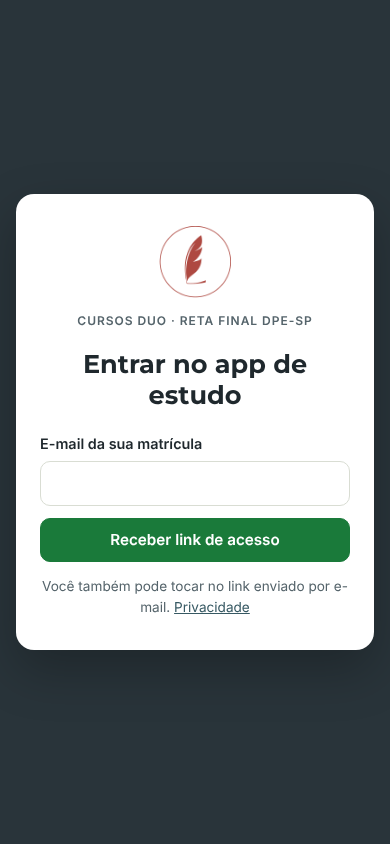
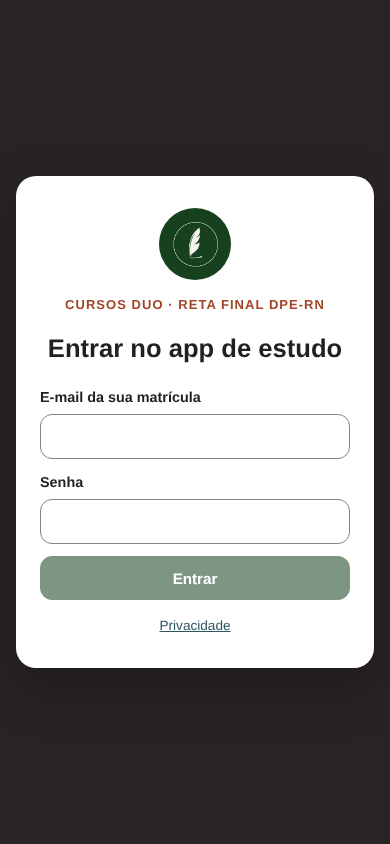
Questões: confirmar a resposta e a questão respondida não some (PR #32 do DPE-SP)
Traz as duas correções do banco de questões feitas no app do DPE-SP depois da cópia,
e as capturas da tela de login com a identidade DPE-RN.

Claude-Session: https://claude.ai/code/session_01P45dY2JHc384K51xrF12Gf

Changed region(s): [[0.0308, 0.1848, 0.9846, 0.8009]]

diff --git a/components/questions/QuestionBank.tsx b/components/questions/QuestionBank.tsx
@@ -56,6 +56,8 @@ function LegalBasis({ questionId }: { questionId: string }) {
 
 function QuestionCard({ question, onAnswered }: { question: QuestionView; onAnswered: (id: string, choice: Letter, correct: boolean) => void }) {
   const [error, setError] = useState(""); const [retry, setRetry] = useState(false);
+  // Alternativa marcada, ainda sem confirmar: o aluno pode trocar antes de ver a correção.
+  const [picked, setPicked] = useState<Letter | null>(null);
   const answer = retry ? null : question.resposta;
   // Corrige na hora, no aparelho; a resposta é salva em seguida sem prender a tela.
   function save(choice: Letter) {
@@ -64,10 +66,11 @@ function QuestionCard({ question, onAnswered }: { question: QuestionView; onAnsw
       .then(async (response) => { if (!response.ok) { const payload = await response.json().catch(() => ({})); throw new Error(payload?.error?.message ?? ""); } })
       .catch((failure: Error) => setError(`Sua resposta não foi salva${failure.message ? ` (${failure.message})` : ""}. Confira a conexão e responda de novo.`));
   }
-  function choose(choice: Letter) {
-    if (answer) return;
+  function confirm() {
+    if (answer || !picked) return;
+    const choice = picked;
     const correct = question.anulada || choice === question.gabarito;
-    setRetry(false); onAnswered(question.id, choice, correct); save(choice);
+    setRetry(false); setPicked(null); onAnswered(question.id, choice, correct); save(choice);
   }
   const letters = Object.keys(question.alternativas) as Letter[];
   return <article className="q-card" aria-labelledby={`q-${question.id}`}>
@@ -76,15 +79,16 @@ function QuestionCard({ question, onAnswered }: { question: QuestionView; onAnsw
     {question.anulada && <p className="q-note">Questão anulada pela banca: qualquer alternativa conta como acerto.</p>}
     <ol className="q-alts" aria-label="Alternativas">
       {letters.map((letter) => {
-        const chosen = answer?.choice === letter, isAnswer = Boolean(answer) && question.gabarito === letter;
-        const state = !answer ? "" : isAnswer ? "is-answer" : chosen ? "is-wrong" : "is-dim";
-        return <li key={letter}><button type="button" className={`q-alt ${state}`.trim()} onClick={() => choose(letter)} disabled={Boolean(answer)} aria-pressed={chosen}>
+        const chosen = answer ? answer.choice === letter : picked === letter, isAnswer = Boolean(answer) && question.gabarito === letter;
+        const state = !answer ? (chosen ? "is-picked" : "") : isAnswer ? "is-answer" : chosen ? "is-wrong" : "is-dim";
+        return <li key={letter}><button type="button" className={`q-alt ${state}`.trim()} onClick={() => setPicked(letter)} disabled={Boolean(answer)} aria-pressed={chosen}>
           <span className="q-letter" aria-hidden="true">{letter}</span><span>{question.alternativas[letter]}</span>
           {answer && isAnswer && <span className="q-mark">✓ gabarito</span>}{answer && chosen && !isAnswer && <span className="q-mark">✗ sua resposta</span>}
         </button></li>;
       })}
     </ol>
-    {answer && <p className={answer.correct ? "q-result ok" : "q-result bad"} role="status">{answer.correct ? "Você acertou!" : `Você marcou ${answer.choice}. Gabarito: ${question.gabarito ?? "anulada"}.`} <button type="button" className="button ghost" onClick={() => setRetry(true)}>Responder de novo</button></p>}
+    {!answer && <div className="q-confirm"><button type="button" className="button primary" onClick={confirm} disabled={!picked}>Confirmar resposta</button>{!picked && <span className="muted">Escolha uma alternativa e confirme para ver a correção.</span>}</div>}
+    {answer && <p className={answer.correct ? "q-result ok" : "q-result bad"} role="status">{answer.correct ? "Você acertou!" : `Você marcou ${answer.choice}. Gabarito: ${question.gabarito ?? "anulada"}.`} <button type="button" className="button ghost" onClick={() => { setRetry(true); setPicked(null); }}>Responder de novo</button></p>}
     {answer && !answer.correct && question.gabarito && <p className="q-right"><strong>Alternativa correta ({question.gabarito}):</strong> {question.alternativas[question.gabarito]}</p>}
     {answer && question.comentario && <details className="q-comment" open><summary>Gabarito comentado</summary>{question.comentario.split(/\n{2,}/).map((paragraph, index) => <p key={index}>{paragraph}</p>)}</details>}
     {answer && <LegalBasis questionId={question.id} />}
@@ -98,6 +102,11 @@ export function QuestionBank() {
   const [bank, setBank] = useState<Bank | null>(null); const [error, setError] = useState("");
   const [search, setSearch] = useState(params.get("busca") ?? "");
   const query = params.toString();
+  // Questões respondidas desde que o aluno abriu esta seleção, com a situação de antes: continuam na tela, com a
+  // correção, até ele mudar os filtros (trocar de página não conta, senão a próxima página pularia questões).
+  const selection = (() => { const next = new URLSearchParams(query); next.delete("pagina"); return next.toString(); })();
+  const [frozen, setFrozen] = useState<{ selection: string; before: Map<string, Answer | null> }>({ selection, before: new Map() });
+  const before = useMemo(() => (frozen.selection === selection ? frozen.before : new Map<string, Answer | null>()), [frozen, selection]);
 
   useEffect(() => {
     let alive = true;
@@ -109,7 +118,7 @@ export function QuestionBank() {
     return () => { alive = false; };
   }, []);
 
-  const result = useMemo(() => (bank ? searchQuestions(bank.questions, parseQuestionFilter(new URLSearchParams(query)), bank.answers) : null), [bank, query]);
+  const result = useMemo(() => (bank ? searchQuestions(bank.questions, parseQuestionFilter(new URLSearchParams(query)), bank.answers, before) : null), [bank, query, before]);
   const update = useCallback((changes: Record<string, string>) => {
     const next = new URLSearchParams(params.toString());
     for (const [key, value] of Object.entries(changes)) { if (value) next.set(key, value); else next.delete(key); }
@@ -120,6 +129,7 @@ export function QuestionBank() {
   const onSelect = (name: string, value: string) => update({ [name]: value });
   function submitSearch(event: FormEvent) { event.preventDefault(); update({ busca: search.trim() }); }
   function onAnswered(id: string, choice: Letter, correct: boolean) {
+    if (bank && !before.has(id)) setFrozen({ selection, before: new Map(before).set(id, bank.answers.get(id) ?? null) });
     setBank((current) => current && { ...current, answers: new Map(current.answers).set(id, { choice, correct }) });
   }
 
@@ -136,6 +146,7 @@ export function QuestionBank() {
     try {
       const response = await fetch("/api/questoes", { method: "DELETE", headers: { "content-type": "application/json" }, body: JSON.stringify(ids ? { ids } : {}) });
       if (!response.ok) throw new Error((await response.json().catch(() => ({})))?.error?.message ?? "Não foi possível apagar as respostas.");
+      setFrozen({ selection, before: new Map() });
       setBank((current) => { if (!current) return current; const answers = new Map(current.answers); for (const id of ids ?? [...answers.keys()]) answers.delete(id); return { ...current, answers }; });
       setError("");
     } catch (failure) { setError(failure instanceof Error ? failure.message : "Não foi possível apagar as respostas."); }

diff --git a/lib/questions/bank.ts b/lib/questions/bank.ts
@@ -43,7 +43,12 @@ export function matches(question: Question, filter: QuestionFilter, answers: Map
 }
 
 // Filtra, conta as opções de cada filtro (cada contagem respeita os outros filtros) e devolve uma página.
-export function searchQuestions(bank: Question[], filter: QuestionFilter & { pagina: number }, answers: Map<string, Answer>) {
+// "frozen": questões respondidas agora, na tela aberta, com a situação de antes da resposta. A seleção usa essa
+// situação, para a questão não sumir ao ser respondida (filtro "Não respondidas") e o aluno ver a correção;
+// a correção e as contagens usam a resposta atual.
+export function searchQuestions(bank: Question[], filter: QuestionFilter & { pagina: number }, current: Map<string, Answer>, frozen: Map<string, Answer | null> = new Map()) {
+  const answers = new Map(current);
+  for (const [id, before] of frozen) { if (before) answers.set(id, before); else answers.delete(id); }
   const found = bank.filter((question) => matches(question, filter, answers));
   const facet = (key: keyof QuestionFilter, pick: (question: Question) => string | null) => count(bank.filter((question) => matches(question, filter, answers, key)).map(pick));
   const facets: Facets = {
@@ -55,9 +60,9 @@ export function searchQuestions(bank: Question[], filter: QuestionFilter & { pag
   };
   const start = (filter.pagina - 1) * PAGE_SIZE;
   const items: QuestionView[] = found.slice(start, start + PAGE_SIZE).map((question) => {
-    const resposta = answers.get(question.id) ?? null;
+    const resposta = current.get(question.id) ?? null;
     return { ...question, resposta };
   });
-  const answered = bank.filter((question) => answers.has(question.id));
-  return { total: found.length, pagina: filter.pagina, paginas: Math.max(1, Math.ceil(found.length / PAGE_SIZE)), items, facets, stats: { respondidas: answered.length, acertos: answered.filter((question) => answers.get(question.id)?.correct).length, total: bank.length } };
+  const answered = bank.filter((question) => current.has(question.id));
+  return { total: found.length, pagina: filter.pagina, paginas: Math.max(1, Math.ceil(found.length / PAGE_SIZE)), items, facets, stats: { respondidas: answered.length, acertos: answered.filter((question) => current.get(question.id)?.correct).length, total: bank.length } };
 }

diff --git a/tests/e2e/csp.spec.ts b/tests/e2e/csp.spec.ts
@@ -78,8 +78,23 @@ test("telas do aluno funcionam sem nenhum script bloqueado", async ({ page }) =>
   await page.goto("/caderno", { waitUntil: "networkidle" });
   await expect(page.locator(".note-item blockquote").first()).toHaveText("Crime");
   await page.goto("/questoes", { waitUntil: "networkidle" });
-  await page.locator(".q-card .q-alt").first().click();
-  await expect(page.locator(".q-card .q-result").first()).toBeVisible();
+  // Marcar a alternativa não corrige: o aluno pode trocar e só vê a correção ao confirmar.
+  const card = page.locator(".q-card").first();
+  await expect(card.getByRole("button", { name: "Confirmar resposta" })).toBeDisabled();
+  await card.locator(".q-alt").nth(1).click();
+  await card.locator(".q-alt").first().click();
+  await expect(card.locator(".q-alt").first()).toHaveAttribute("aria-pressed", "true");
+  await expect(card.locator(".q-alt").nth(1)).toHaveAttribute("aria-pressed", "false");
+  await expect(card.locator(".q-result")).toHaveCount(0);
+  await card.getByRole("button", { name: "Confirmar resposta" }).click();
+  await expect(card.locator(".q-result")).toBeVisible();
+  // Pelo atalho do cronograma ("Não respondidas"), a questão respondida continua na tela com a correção.
+  await page.goto("/questoes?situacao=nao-respondidas", { waitUntil: "networkidle" });
+  const firstQuestion = await page.locator(".q-card .q-text").first().textContent();
+  await page.locator(".q-card").first().locator(".q-alt").first().click();
+  await page.locator(".q-card").first().getByRole("button", { name: "Confirmar resposta" }).click();
+  await expect(page.locator(".q-card").first().locator(".q-text")).toHaveText(firstQuestion ?? "");
+  await expect(page.locator(".q-card").first().locator(".q-result")).toBeVisible();
   await page.goto("/vade-esperto", { waitUntil: "networkidle" });
   await expect(page.getByRole("link", { name: "Ler no app" })).toHaveAttribute("href", "/disciplinas/vade-esperto-codigo-penal");
   await page.goto("/cronograma", { waitUntil: "networkidle" });

diff --git a/tests/duo/questions.test.ts b/tests/duo/questions.test.ts
@@ -36,6 +36,17 @@ describe("searchQuestions", () => {
     expect(searchQuestions(bank, filter("situacao=errei"), answers).items.map((item) => item.id)).toEqual(["2"]);
     expect(searchQuestions(bank, filter("situacao=nao-respondidas"), answers).items.map((item) => item.id)).toEqual(["3"]);
   });
+  it("questão respondida agora não some da seleção: fica na tela com a correção, acertando ou errando", () => {
+    const answers = new Map<string, Answer>([["2", { choice: "A", correct: false }], ["3", { choice: "B", correct: true }]]);
+    // 2 e 3 foram respondidas nesta tela; antes, nenhuma das duas tinha resposta.
+    const frozen = new Map<string, Answer | null>([["2", null], ["3", null]]);
+    const open = searchQuestions(bank, filter("situacao=nao-respondidas"), answers, frozen);
+    expect(open.items.map((item) => [item.id, item.resposta?.correct ?? null])).toEqual([["1", null], ["2", false], ["3", true]]);
+    expect(open.stats).toEqual({ respondidas: 2, acertos: 1, total: 3 });
+    // "Errei": a questão que o aluno refez e acertou continua na tela, agora com a correção nova.
+    const retried = searchQuestions(bank, filter("situacao=errei"), new Map<string, Answer>([["2", { choice: "B", correct: true }]]), new Map([["2", { choice: "A", correct: false }]]));
+    expect(retried.items.map((item) => [item.id, item.resposta?.correct])).toEqual([["2", true]]);
+  });
   it("pagina de 10 em 10", () => {
     const many = Array.from({ length: 23 }, (_, i) => q(String(i)));
     const page = searchQuestions(many, filter("pagina=3"), new Map());

diff --git a/app/globals.css b/app/globals.css
@@ -292,6 +292,10 @@ label { display: grid; gap: .35rem; font-weight: 600; font-size: .9rem; }
 .q-alt.is-wrong .q-letter { background: var(--danger); border-color: var(--danger); color: var(--surface); }
 .q-alt.is-wrong .q-mark { color: var(--danger); }
 .q-alt.is-dim { opacity: .7; }
+.q-alt.is-picked { border-color: var(--accent); border-width: 2.5px; background: var(--surface-2); }
+.q-alt.is-picked .q-letter { background: var(--accent); border-color: var(--accent); color: var(--on-accent); }
+.q-confirm { display: flex; align-items: center; gap: var(--s-3); flex-wrap: wrap; }
+.q-confirm .button:disabled { opacity: .55; cursor: not-allowed; }
 .q-result { margin: 0; display: flex; align-items: center; gap: var(--s-2); flex-wrap: wrap; font-weight: 700; }
 .q-result.ok { color: var(--accent); }
 .q-result.bad { color: var(--danger); }
